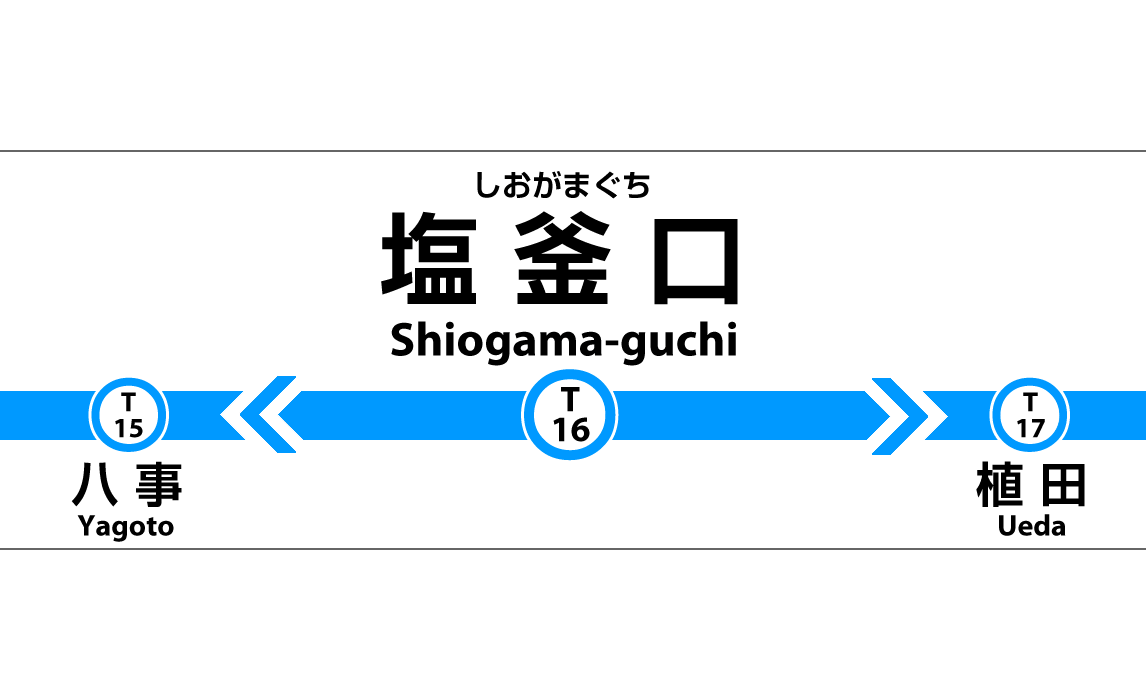
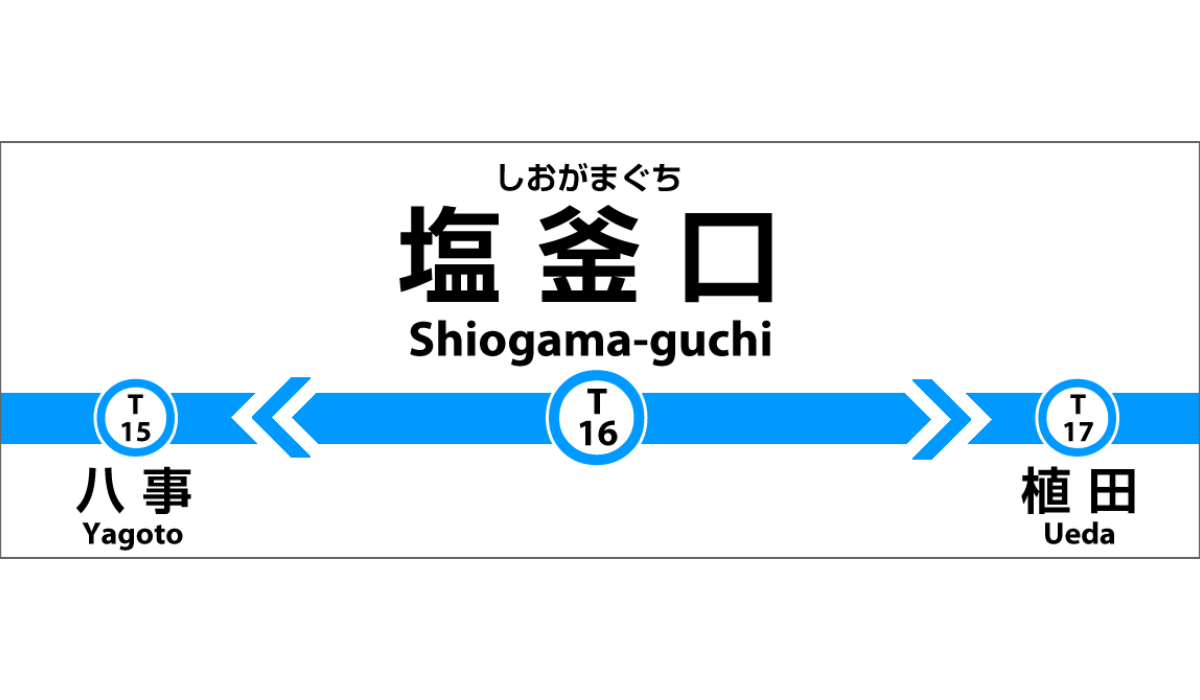
done16

diff --git a/posts/item-apple-sonoma.md b/posts/item-apple-sonoma.md
@@ -1,0 +1,74 @@
+---
+title: 'macOS14 Sonoma レビュー'
+date: '2023-09-27'
+description: 'macOS14 Sonomaでチェックしたい機能をご紹介します。'
+image: item-apple-sonoma.png
+categories: ['商品レビュー', 'Apple']
+---
+## 目次
+## Sonomaリリース
+日本時間2023/9/27に待望のSonomaがリリースされました。デスクトップにウィジェットが表示できるようになったことが目玉機能なようですね！私が一番嬉しい機能は、SafariでWebサイトをpwa化できる機能です。MacがWindows唯一完全に劣っていた機能が追加されました！！
+### Pwa化のやり方
+#### ・バッテリー性能が良い
+日常で使用していて一番恩恵を感じる点です。1日は余裕で持つので出先で困ることがありません！！
+#### ・軽い
+持ち歩きが苦じゃない重さなため、気軽にスタバへ持って行けます！！
+### デメリット
+#### ・高い
+円安の影響もあり、吊るしでも16万円〜と、学生には痛いお値段です。性能は良いですが、コスパは...
+#### ・ファンレス
+この機種を購入する際の一番の懸念点。ファンつけてくれよ〜〜〜
+
+詰んでるチップを最大限に引き出せるハードではありません。
+
+## どのスペックを選ぶべきか
+デメリットを受け入れ M2 Mac Book Air買うと決めた後もスペック選びで迷うことになりますね!
+楽しいですけど！
+私の使用感と購入時に迷いに迷ってたくさん調べたので、それをもとに選ぶべきスペックをお伝えします。
+
+
+|| MacBook Air（M2,2022） 13インチ | MacBook Air（M2,2023） 15インチ |
+| ---------- | ----- | ---- |
+| 画面サイズ | 13.6インチ | 15.3インチ |
+| CPU | 8コア | 8コア |
+| GPU | 8コア/10コア | 10コア |
+| メモリ | 8GB/16GB/24GB | 8GB/16GB/24GB |
+| ストレージ | 256GB / 512GB / 1TB / 2TB | 256GB / 512GB / 1TB / 2TB |
+
+
+### ・画面サイズについて
+MacBook Air にするのであれば13インチ一択ですね。15にするとAirのアイデンティティの持ち運びやすさがなくなってしまいます。
+15を選びたい方はproを購入することをお勧めします。ファンもついてますしね、、
+
+### ・GPUについて
+GPUは8コア/10コアから選択できますが、10GBをにするべきです！
+グラフィック性能は、動画、画像の編集をするとき、機械学習をするとき、Unityなどでゲームを作るときに大事になってきます。
+Macを買って作業する人の想定される用途的にもここは譲らないほうが良いです。
+
+### ・メモリ
+メモリは8GB/16GB/24GBから選択できますが、16GBにするべきだと思います。
+メモリ(RAM)は同時に処理の性能に関わるものでしたね。多ければ多いほど複数の作業、重い作業がしやすくなります。
+私は奮発して24GBにしましたが、オーバースペック気味だったかと思います。
+16GBで十分だと思います。
+買った当初はもっと機械学習とゲーム制作に意気込んでいたのですが、プログラミング熱が冷めてきてしまって,,,笑
+8GBは用途がかなり限られるのでやめておきましょう。動画視聴、Web会議くらいの重さの作業で、ギリギリなスペックです。
+
+### ・メモリ
+ストーレージは256GB / 512GB / 1TB / 2TBから選べますが、512GB一択です。
+パーツ交換ができないMacですが、ストレージに関しては、外付けSSDや、icloudなど、足りなくなっても後からなんとかなります。
+よって少ないものを選ぶべきなのです。しかし256GBを選択すると、なぜか内臓SSDがデータを読み込む際のスピードが遅くなるよう
+なので、避けておいたほうがいいみたいです。よって512GBを選択しましょう
+
+
+
+
+## あとがき
+私のM2 Mac Book Air　の　おすすめスペックは
+
+| 画面サイズ | CPU | GPU | メモリ | ストレージ |
+| --- | --- | --- | ---- | ---------- |
+| 13インチ | 8コア |10コア | 16GB | 512GB |
+
+です！！参考にしていただけたら嬉しいです
+
+[記事一覧](/)

diff --git a/posts/nagoya-yagoto.md b/posts/nagoya-yagoto.md
@@ -2,7 +2,7 @@
 title: '(名古屋)鶴舞線_八事駅グルメ・観光'
 date: '2023-09-26'
 description: '八事駅周辺のグルメ・スポッtをご紹介します'
-image: nagoya-shiogama-yagoto.png
+image: nagoya-yagoto.png
 categories: ['おすすめスポット', '名古屋', '鶴舞線', '名城線']
 ---
 ## 目次
